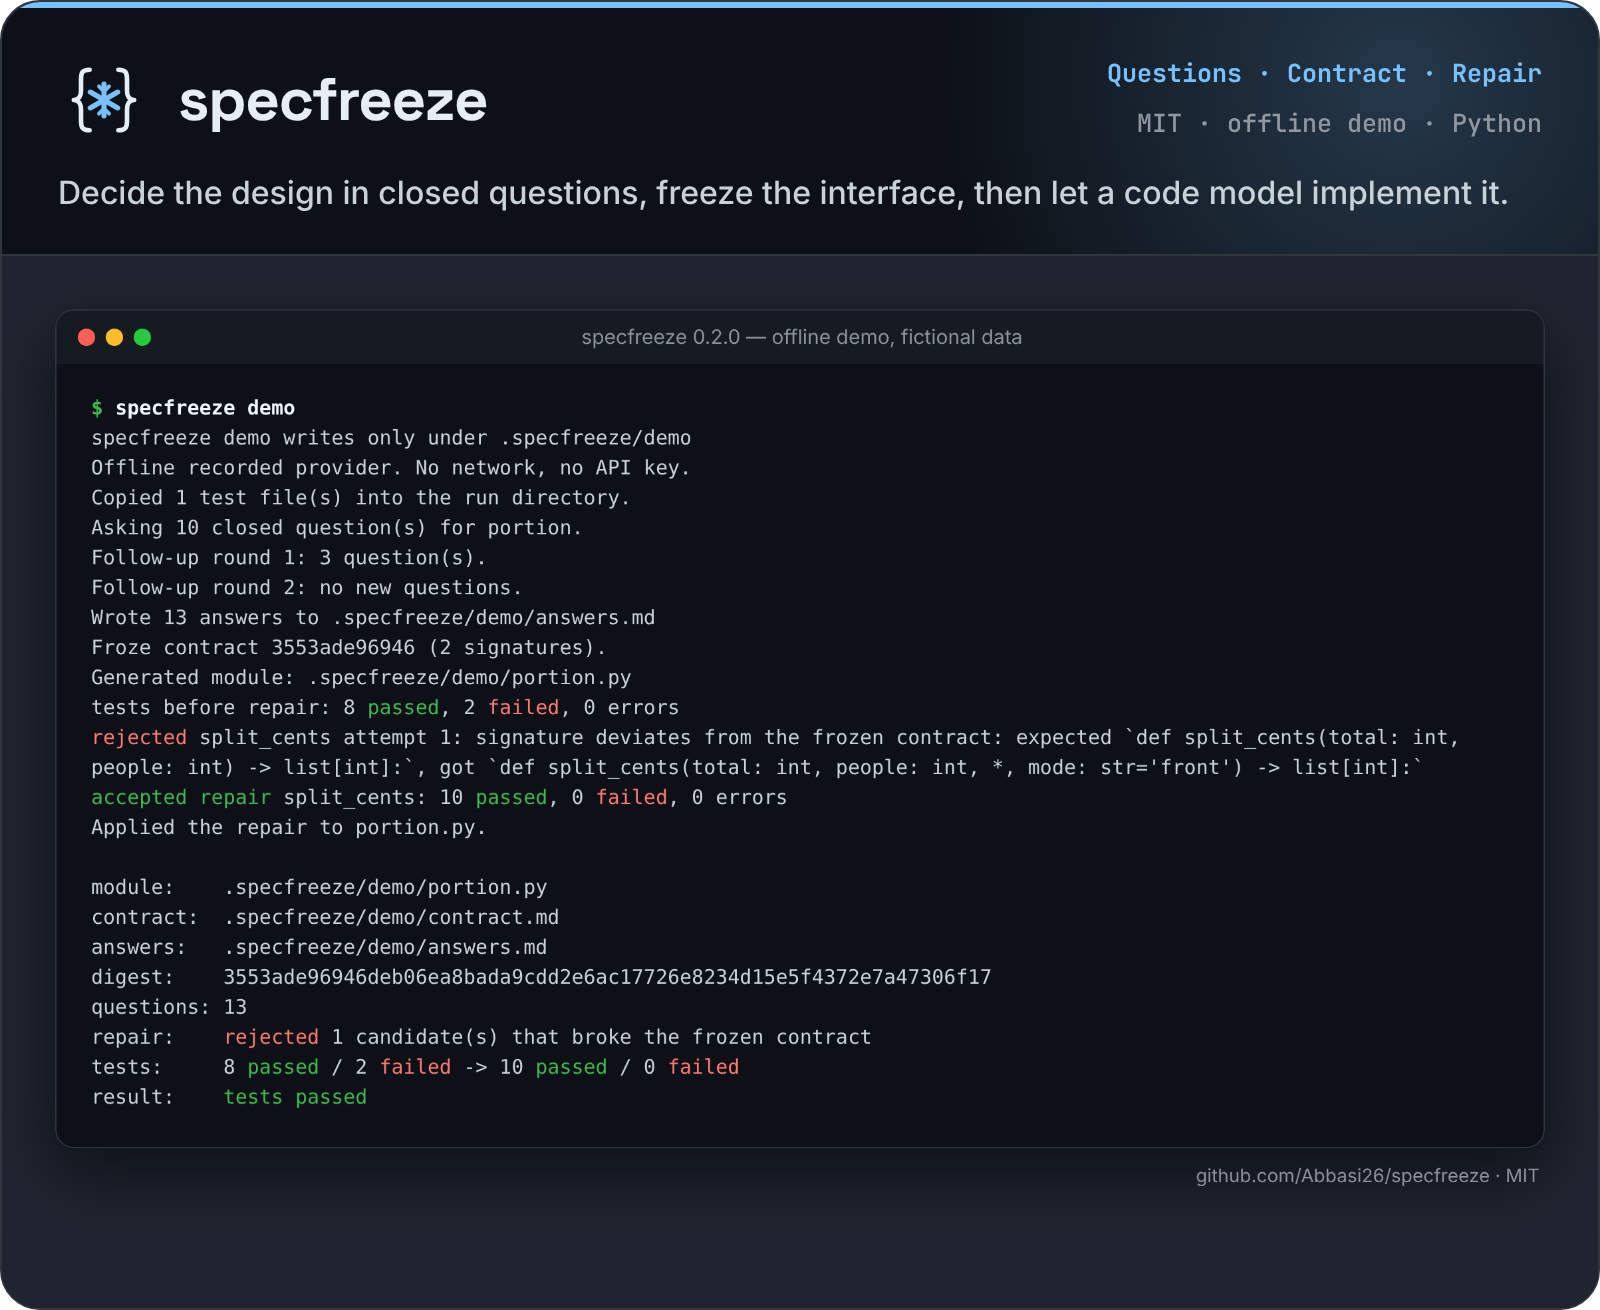
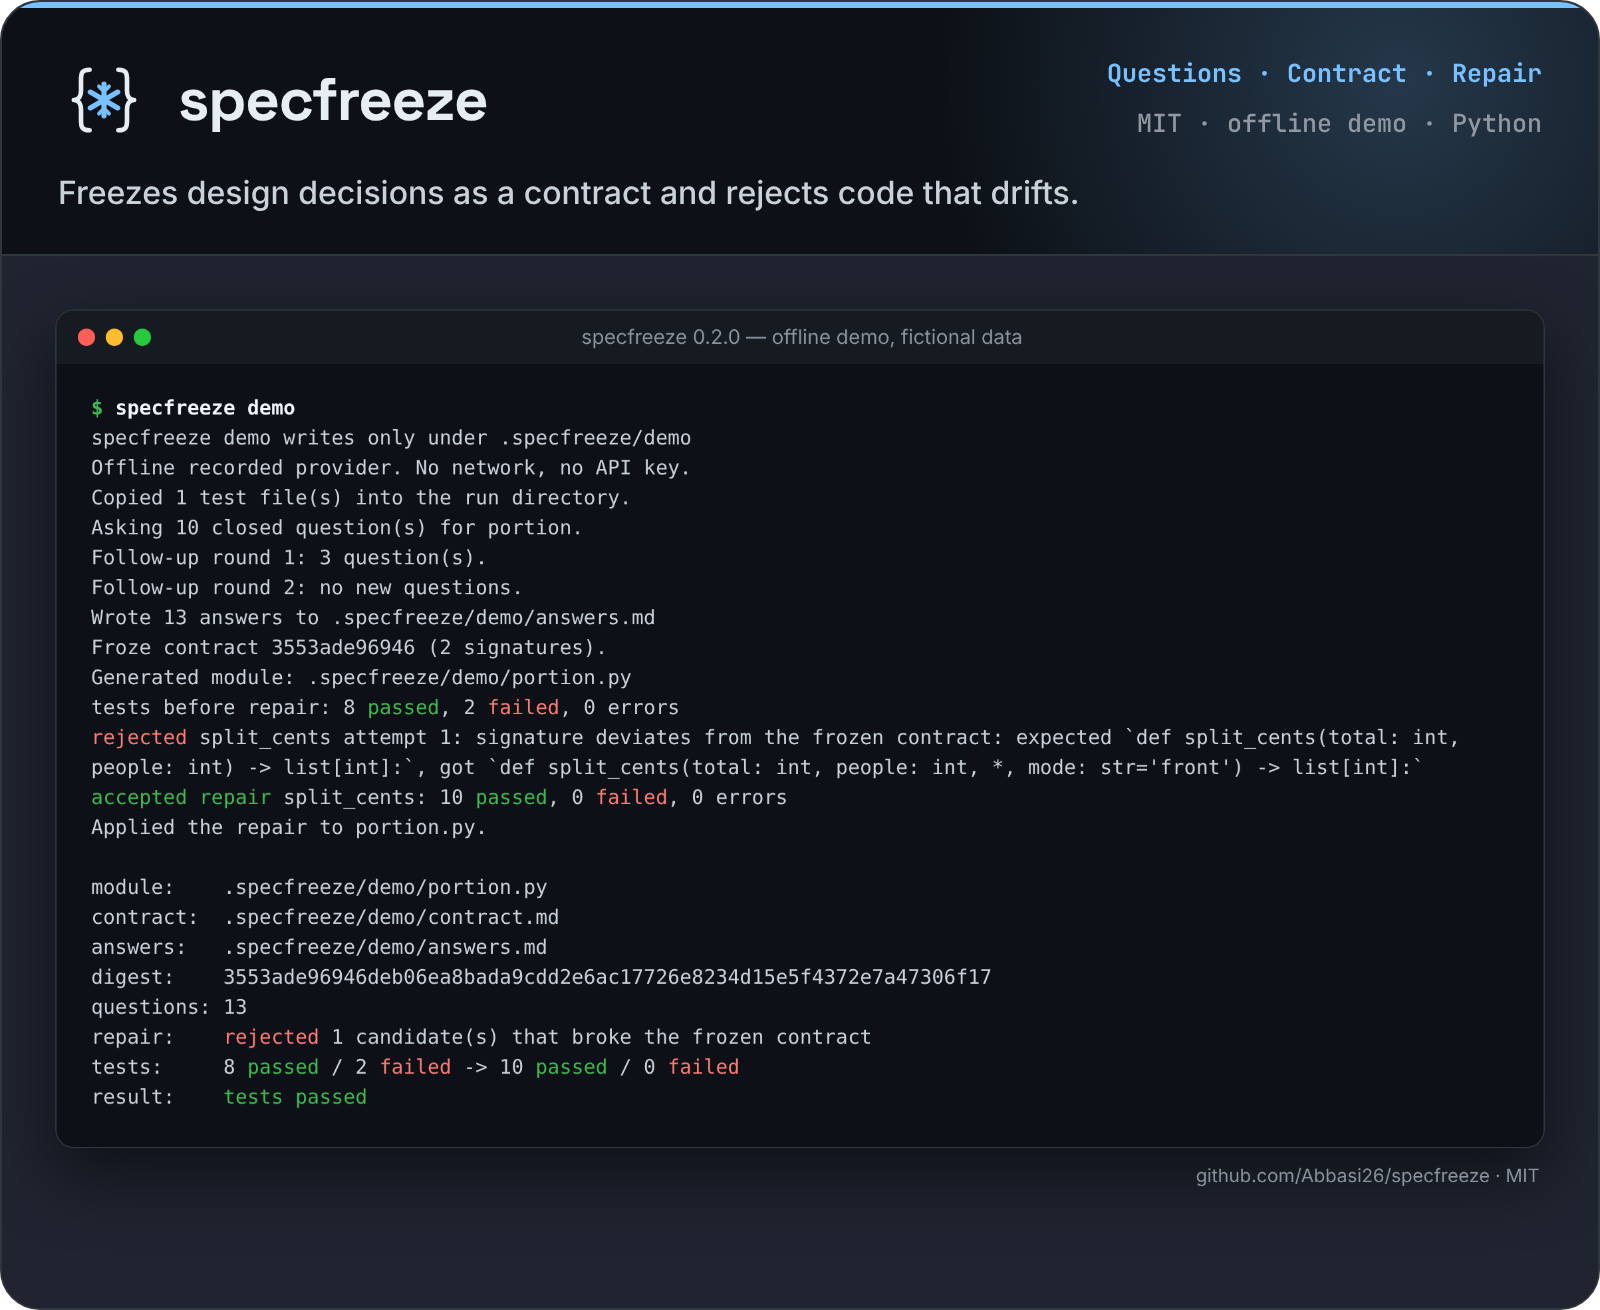
docs: update README header and hero from revised assets
Replaces the hero image, social preview and README header block with the revised design; the original title and the rest of the README are unchanged.

Changed region(s): [[0.0312, 0.1221, 0.9375, 0.1527]]

diff --git a/README.md b/README.md
@@ -6,7 +6,7 @@
   </picture>
 </p>
 
-<p align="center">Decide the design in closed questions, freeze the interface, then let a code model implement it.</p>
+<p align="center">Freezes design decisions as a contract and rejects code that drifts.</p>
 
 <p align="center">
   <img src="docs/assets/readme-hero.png" width="800" alt="Terminal output of specfreeze demo: 13 answers, a frozen contract, one repair rejected for changing the signature, one accepted, tests going from 8 passed / 2 failed to 10 passed.">
